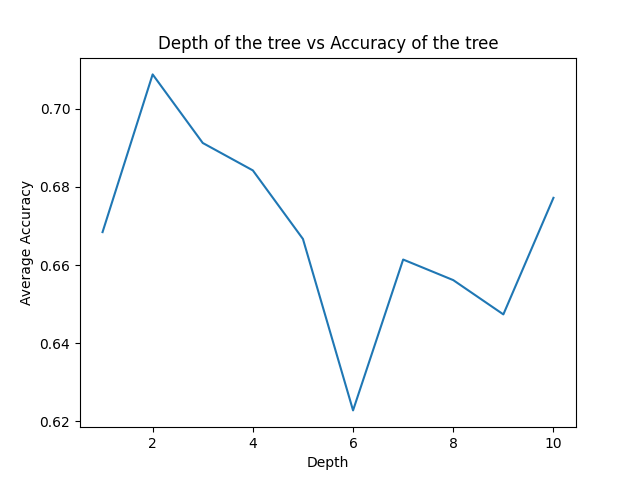
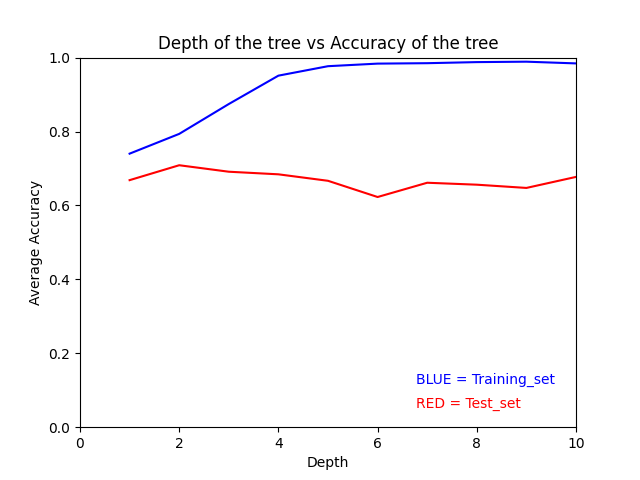
added plot and tree_img

diff --git a/Assgn1/main.py b/Assgn1/main.py
@@ -238,6 +238,98 @@ def build_tree(max_depth,example_list,target,vis) :
 
 
 
+#print tree
+
+def add_nodes(mynode,f,node_num):
+	s=""
+	
+	if mynode.leaf==1:
+		s+=str(node_num[0])
+		s+=" [label=\""
+		s+=str(mynode.target_val)
+		if mynode.target_val==attribute_set.positive:
+			s+="\",color=\"seagreen\"]\n"
+		else:
+			s+="\",color=\"red3\"]\n"
+		f.write(s)
+		return ;
+	# node_num+=1
+	s+=str(node_num[0])
+	s+=" [label=\""
+	s+=attribute_set.attribute_names[mynode.attribute_number]
+	s+="\",color=\"purple3\"]\n"
+	f.write(s)
+	for i in mynode.child:
+		node_num[0]+=1
+		add_nodes(i['pointer'],f,node_num)
+	return;
+
+
+def add_edges(mynode,f,node_num):
+	if mynode.leaf==1:
+		return 
+	s=""
+	p_num=node_num[0]
+	for i in mynode.child:
+		node_num[0]+=1
+		s+=str(p_num)
+		s+=" -> "
+		s+=str(node_num[0])
+		s+=" [label=\""
+		s+=i['edge']
+		s+="\"]\n"
+
+		add_edges(i['pointer'],f,node_num)
+	f.write(s)
+	return; 
+
+
+def same_rank(mynode,f,node_num):
+	if mynode.leaf==1:
+		return
+	s=""
+	# s="subgraph cluster_"
+	# s+=str(node_num[0])
+	# s+=" {\n"
+	s+="{rank=same;"
+	for i in mynode.child:
+		node_num[0]+=1
+		s+=str(node_num[0])
+		s+=" ;"
+		same_rank(i['pointer'],f,node_num)
+	# s+=" }\n\t}\n"
+	s+=" }\n"
+	f.write(s)
+	return
+
+
+
+def tree_img(tree_node):
+	f=open("addnode.gv","w+")
+	s="digraph{\nnode [shape=box]\n\n"
+	f.write(s)
+	temp=[]
+	temp.append(1)
+	add_nodes(tree_node,f,temp)
+	# f.close()
+	temp[0]=1
+	add_edges(tree_node,f,temp)
+
+	temp[0]=1
+	# s="subgraph cluster_R {\n"
+	# f.write(s)
+	same_rank(tree_node,f,temp)
+
+	# s="\t\n}\n}\n"
+	s="\n}\n"
+	f.write(s)
+	f.close()
+
+
+
+
+
+
 
 
 
@@ -284,8 +376,10 @@ def find_best_Depth(example_list,target) :
 	best_depth = -1
 	x_points = []
 	y_points = []
+	z_points = [] # 2 graph
 	for i in range(1,11) :
 		sum_accuracy = 0
+		sum_accuracy_training = 0 #2 graph
 		local_max_accuracy = 0
 		local_best_training_set = []
 		local_best_validation_set = []
@@ -301,6 +395,8 @@ def find_best_Depth(example_list,target) :
 			root = build_tree(i,curr_training_set,target,vis)
 			curr_accuracy = getAccuracy(root,curr_test_set,target)
 			sum_accuracy += curr_accuracy
+			curr_accuracy_training = getAccuracy(root,curr_training_set,target)
+			sum_accuracy_training += curr_accuracy_training
 			
 			if curr_accuracy > local_max_accuracy :
 				local_best_trainining_set = curr_training_set
@@ -310,9 +406,11 @@ def find_best_Depth(example_list,target) :
 				local_best_tree = root
 
 		avg_accuracy = sum_accuracy/float(10)
+		avg_accuracy_training = sum_accuracy_training/float(10)
 		
 		x_points.append(i)
 		y_points.append(avg_accuracy)
+		z_points.append(avg_accuracy_training)
 		
 		if avg_accuracy > max_accuracy :
 			best_trainining_set = local_best_training_set
@@ -323,7 +421,7 @@ def find_best_Depth(example_list,target) :
 			best_tree = local_best_tree
 
 		
-	return best_depth,best_validation_set,best_tree,max_accuracy,x_points,y_points		
+	return best_depth,best_validation_set,best_tree,max_accuracy,x_points,y_points,z_points		
 
 def prune_tree(depth,top_root,sub_root,validation_set,max_accuracy,target) :
 
@@ -341,7 +439,7 @@ def prune_tree(depth,top_root,sub_root,validation_set,max_accuracy,target) :
 		p_count += (x[target] == attribute_set.positive)
 		n_count += (x[target] == attribute_set.negative)
 
-	sub_root.target_val = p_count if p_count >= n_count else n_count
+	sub_root.target_val = attribute_set.positive if p_count >= n_count else attribute_set.negative
 
 	new_accuracy = getAccuracy(top_root,validation_set,target)
 
@@ -378,17 +476,25 @@ def main():
 
 	target_attribute = 0
 
-	best_depth,validation_set,prune_root,max_accuracy,x,y = find_best_Depth(example_list,target_attribute)
+	best_depth,validation_set,prune_root,max_accuracy,x,y,z = find_best_Depth(example_list,target_attribute)
 
+	# print(x)
+	# print(y)
 	print(best_depth,max_accuracy)
 	print(prune_tree(0,prune_root,prune_root,validation_set,max_accuracy,target_attribute))
 	fig, ax = plt.subplots()  # Create a figure and an axes.
-	print(x,y)
-	ax.plot(x, y)  # Plot some data on the axes.
+	# print(x,y)
+	plt.xlim(0, 10)
+	plt.ylim(0, 1.00)
+	plt.figtext(0.65, 0.20, "BLUE = Training_set" , color='blue')
+	plt.figtext(0.65, 0.15, "RED = Test_set" , color='red')
+	ax.plot(x, y,'red')  # Plot some data on the axes.
+	ax.plot(x, z,'blue')
 	ax.set_xlabel('Depth')  # Add an x-label to the axes.
 	ax.set_ylabel('Average Accuracy')  # Add a y-label to the axes.
 	ax.set_title("Depth of the tree vs Accuracy of the tree")  # Add a title to the axes.
 	plt.savefig('plot.png')
+	tree_img(prune_root)
 
 	# seed_values = []
 	# for i in range(150) : 
